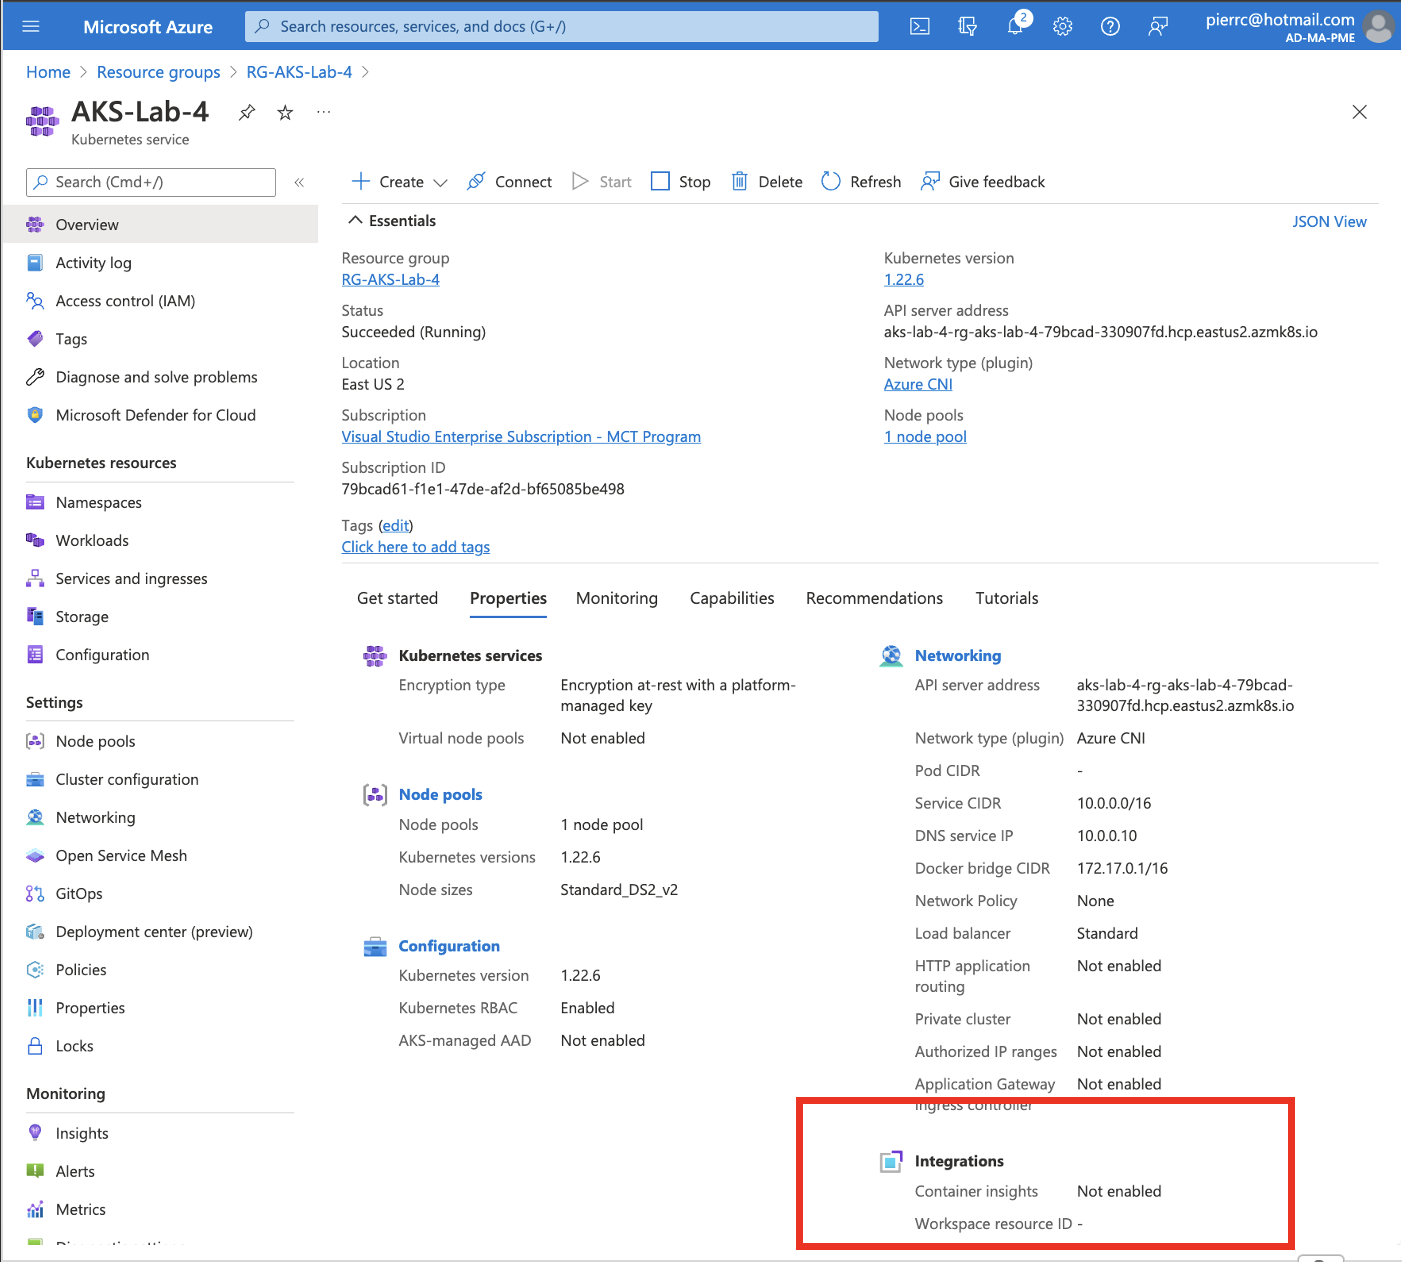
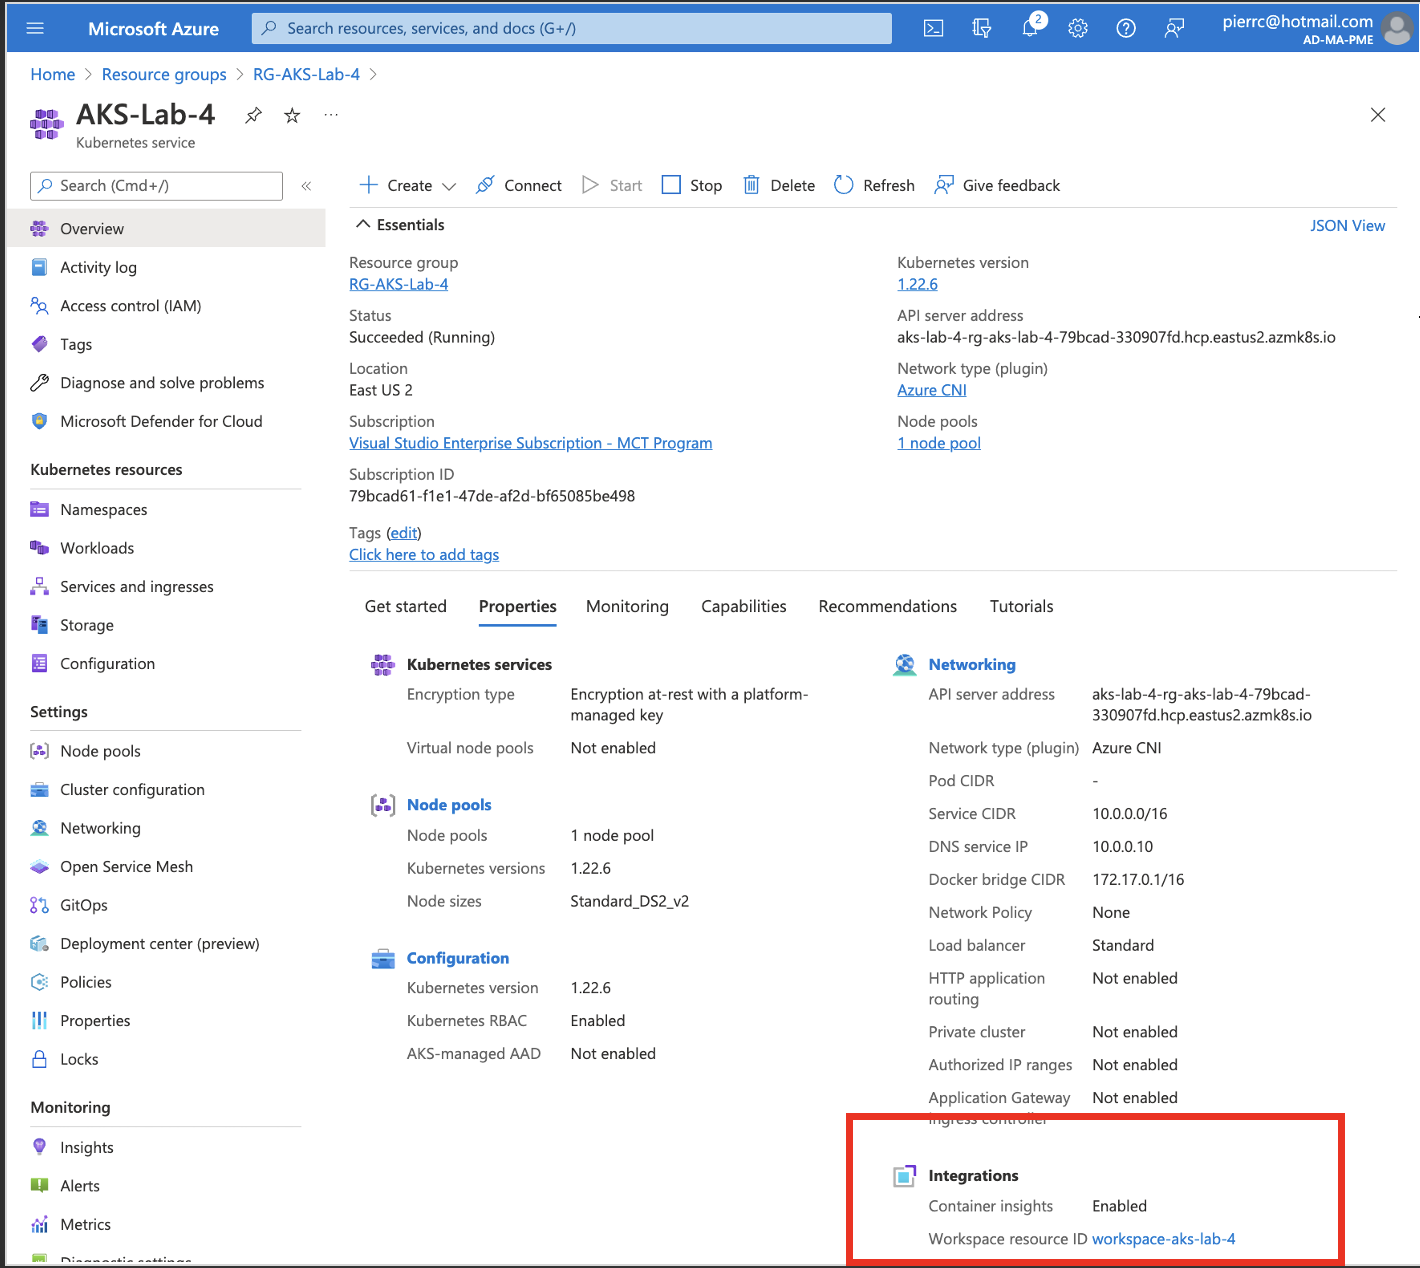
pictures Lab 4

diff --git a/Lab_4/README.md b/Lab_4/README.md
@@ -56,8 +56,8 @@ az aks create \
     --assign-identity $IDENTITY_ID \
     --yes
 ```
-<img width='800' src='../images/Lab_4/Lab_4_1.png'/>
-Pour l'instant le monitoring n'est pas activé
+<img width='800' src='../images/Lab_4/Lab_4_0.png'/>
+Pour l'instant le monitoring n'est pas activé !<br>
 
 - Installez l'application azure-vote (option) <br>
 Comme dans le Lab_1 à l'aide de la console Azure :<br>
@@ -90,6 +90,7 @@ az aks enable-addons \
    --resource-group "RG-AKS-Lab-4" \
    --workspace-resource-id $AKS_MONITORING_LOG_ANALYTICS_WORKSPACE_ID
 ```
+<img width='800' src='../images/Lab_4/Lab_4_1.png'/>
 3. Monitoring<br>
 cf: https://docs.microsoft.com/fr-fr/azure/aks/monitor-aks <br>
 Exemple de requetes "Kusto" : <br>
